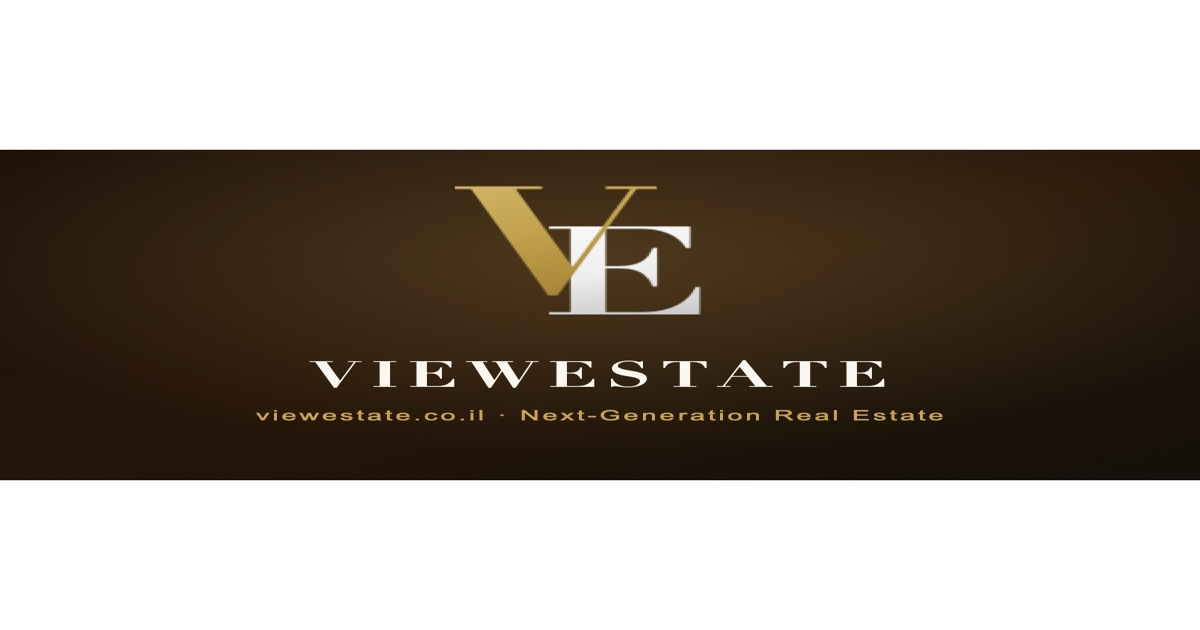
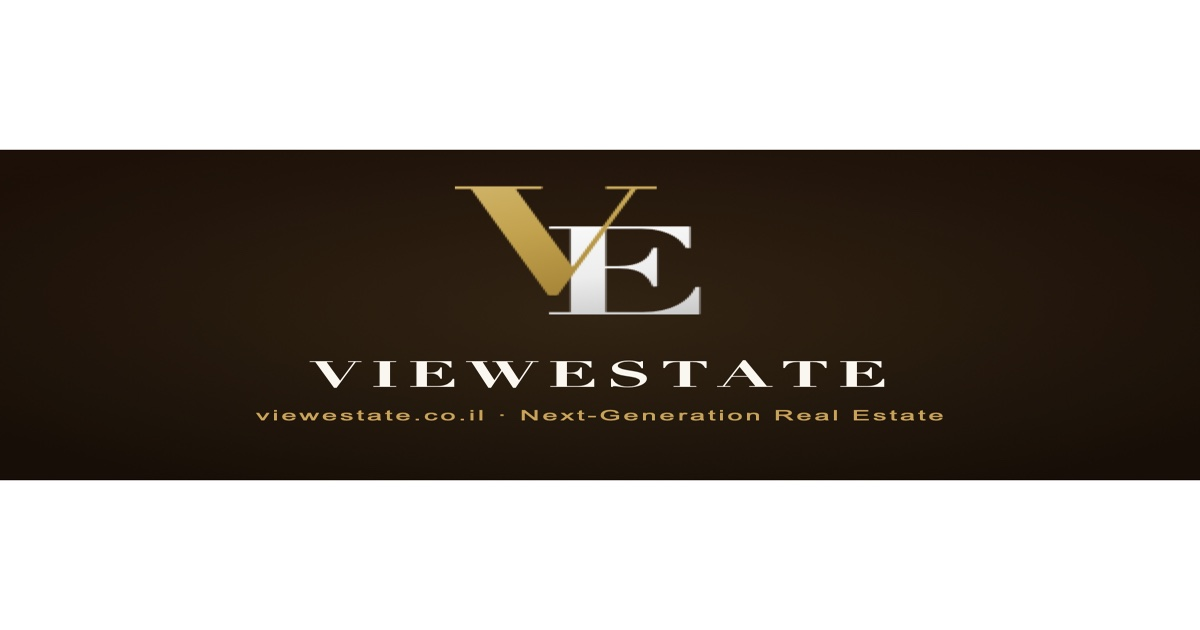
OG image: uniform dark background, remove light top band (v5)

Changed region(s): [[0.3083, 0.2714, 0.74, 0.4825]]

diff --git a/index.html b/index.html
@@ -8,7 +8,7 @@
   <meta name="description" content="דורון — מתווך נכסים מוסמך. נדל&quot;ן הדור הבא: שיווק חכם, וידאו מקצועי לכל נכס, והצגה איכותית ויוקרתית.">
   <meta property="og:title" content="ViewEstate | נדל&quot;ן הדור הבא">
   <meta property="og:description" content="מתווך נכסים מוסמך · שיווק חכם והצגה איכותית ויוקרתית לכל נכס">
-  <meta property="og:image" content="https://viewestate.co.il/og-image.jpg?v=4">
+  <meta property="og:image" content="https://viewestate.co.il/og-image.jpg?v=5">
   <meta property="og:image:width" content="1200">
   <meta property="og:image:height" content="630">
   <meta property="og:image:alt" content="ViewEstate — נדל&quot;ן הדור הבא">
@@ -17,7 +17,7 @@
   <meta property="og:site_name" content="ViewEstate">
   <meta property="og:locale" content="he_IL">
   <meta name="twitter:card" content="summary_large_image">
-  <meta name="twitter:image" content="https://viewestate.co.il/og-image.jpg?v=4">
+  <meta name="twitter:image" content="https://viewestate.co.il/og-image.jpg?v=5">
   <meta name="robots" content="index, follow">
   <meta name="keywords" content="מתווך נכסים, נדל&quot;ן, תיווך, נכסים למכירה, תל אביב, הרצליה, וילה, פנטהאוז, דירת גן, ViewEstate, דורון">
   <link rel="canonical" href="https://viewestate.co.il/">
